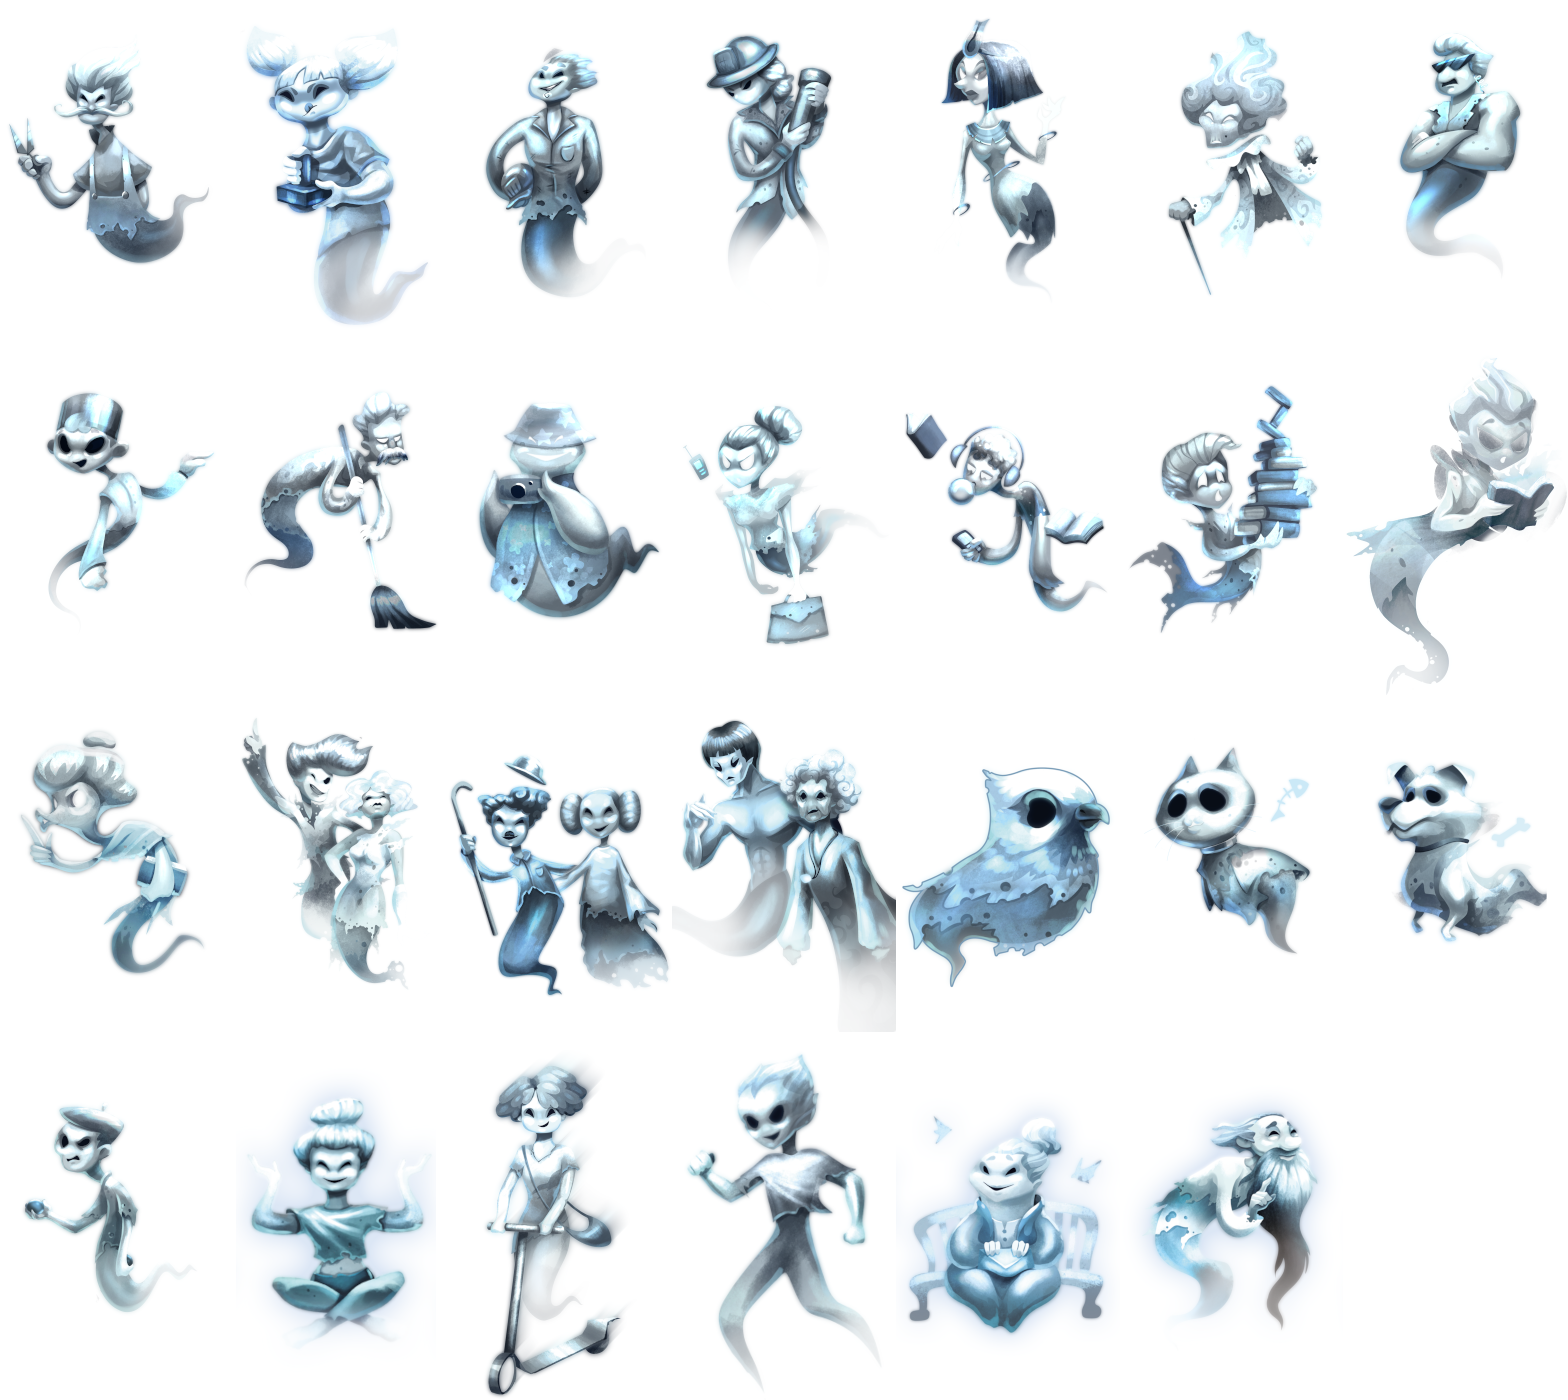
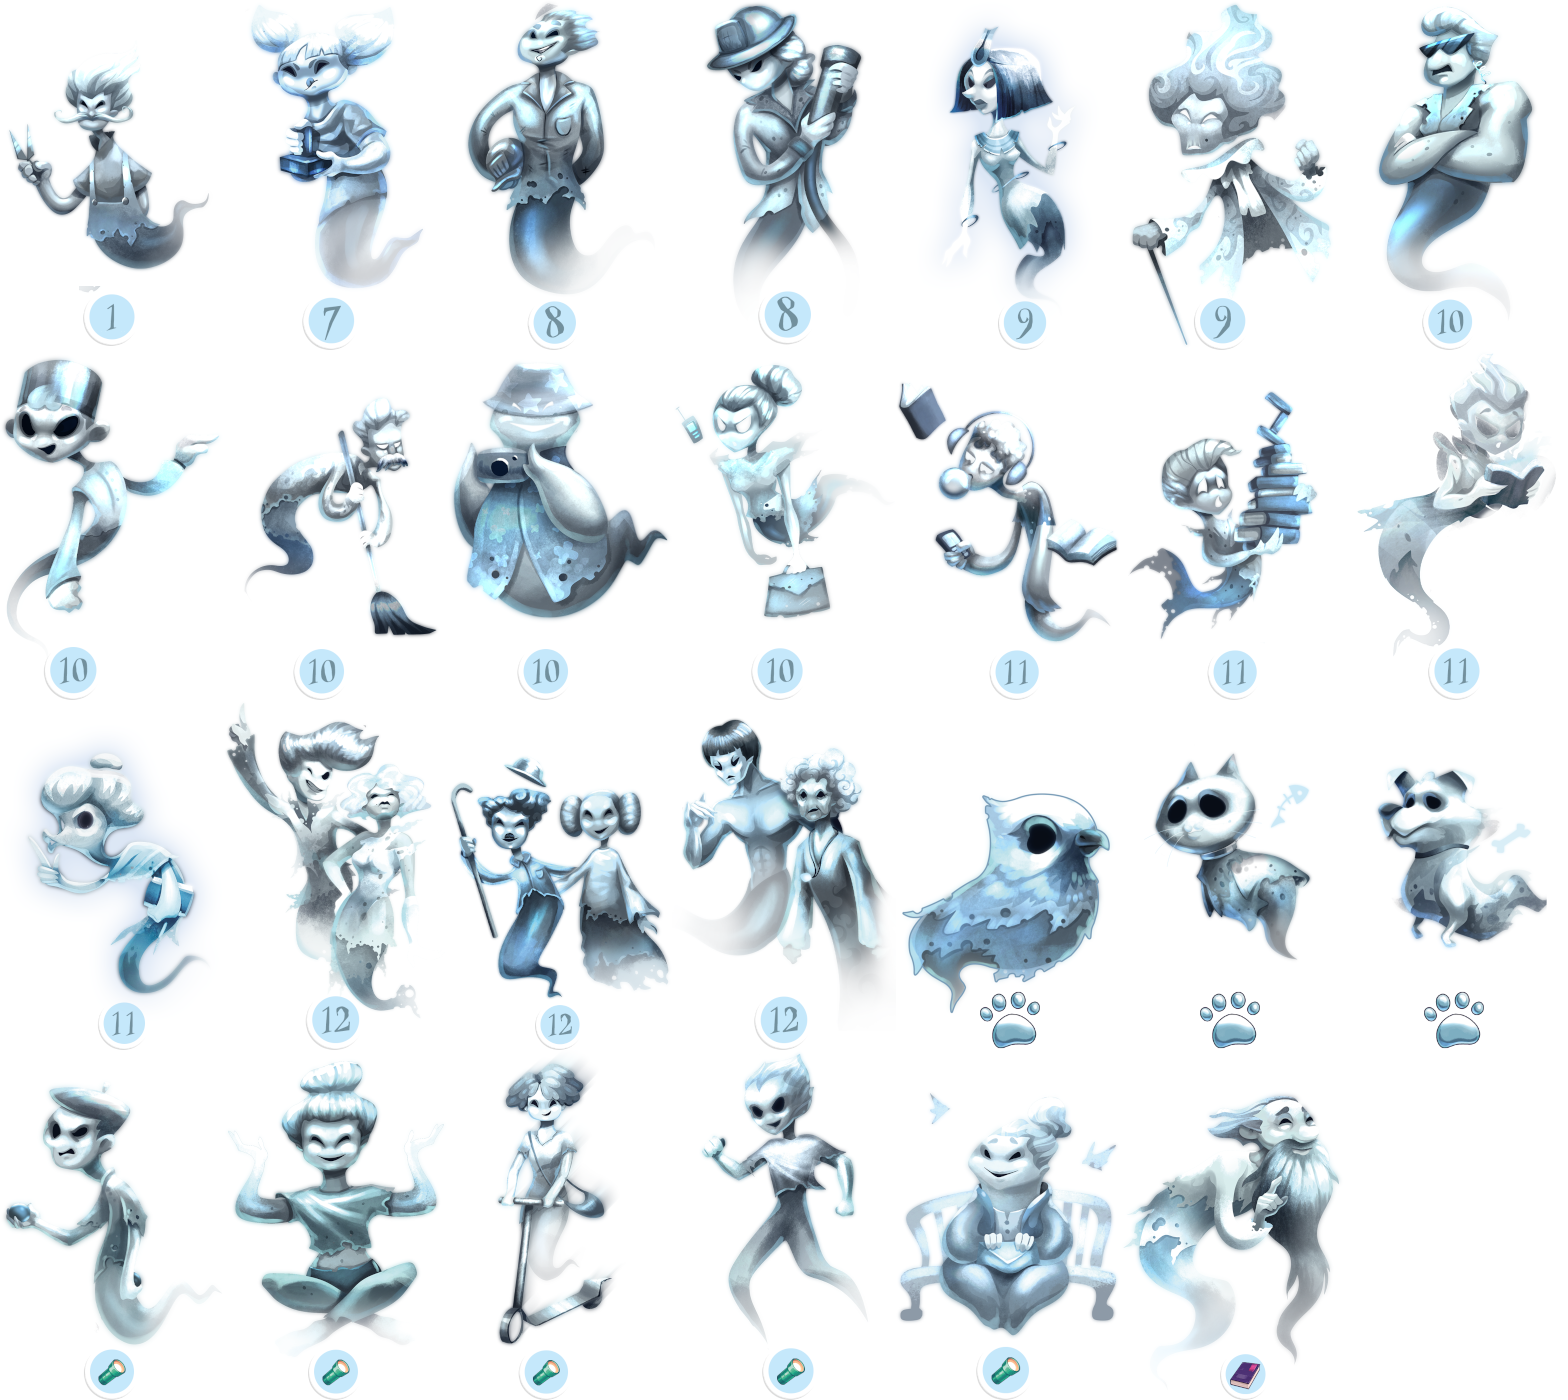
commit

diff --git a/spookytower.css b/spookytower.css
@@ -855,6 +855,32 @@ font-family: "AktivGrotesk-Regular", sans-serif;
   gap: 8px 30px;
 }
 
+.numbers {
+  background-image: url("img/ST_numbers.png");
+  background-size: 1200% 100%;
+  width: 29px;
+  height: 32px;
+  pointer-events: none;
+  display: inline-block;
+  vertical-align: middle;
+  box-sizing: border-box;
+
+}
+
+.numb_1  { background-position: -0%   -0%; }
+.numb_2  { background-position: -100% -0%; }
+.numb_3  { background-position: -200% -0%; }
+.numb_4  { background-position: -300% -0%; }
+.numb_5  { background-position: -400% -0%; }
+.numb_6  { background-position: -500% -0%; }
+.numb_7  { background-position: -600% -0%; }
+.numb_8  { background-position: -700% -0%; }
+.numb_9  { background-position: -800% -0%; }
+.numb_10 { background-position: -900% -0%; }
+.numb_11 { background-position: -1000% -0%; }
+.numb_12 { background-position: -1100% -0%; }
+
+
 
 /*////////////////////////////////////////
 // ____                _ _              //

diff --git a/modules/php/Pending.php b/modules/php/Pending.php
@@ -305,13 +305,14 @@ class Pending extends Game
             //je change le compteur du deck
             game::$instance->{'deck_' . $no_deck}->inc(-1);
 
-            $txt = clienttranslate('${player_name} takes card ${no_house}');
+            $txt = clienttranslate('${player_name} takes card ${log}');
             game::$instance->notify->all(
                 "takeCard",
                 $txt,
                 [
                     'player_id' => $this->player_id,
                     'no_house' => $no_deck,
+                    'log' => $this->getNumbersLogs($no_deck),
                     'card' => $card,
                     'count_card' => $count_card,
                     'nb_remaining' => game::$instance->{'deck_' . $no_deck}->get()
@@ -447,13 +448,14 @@ class Pending extends Game
 
             $cards = game::$instance->getObjectListFromDB("SELECT card_id id, card_type type, card_type_arg type_arg, card_location location, card_location_arg location_arg, position position FROM building WHERE card_location ='house' AND card_location_arg = '{$this->player_id}' AND card_type ='{$no_house}'");
 
-            $txt = clienttranslate('${player_name} flips house ${no_house}');
+            $txt = clienttranslate('${player_name} flips house ${log}');
             game::$instance->notify->all(
                 "flipCards",
                 $txt,
                 [
                     'player_id' => $this->player_id,
                     'no_house' => $no_house,
+                    'log' => $this->getNumbersLogs($no_house),
                     'cards' => $cards,
                 ]
             );
@@ -983,13 +985,14 @@ class Pending extends Game
 
                 if ($no_house <= 8) {
 
-                    $txt = clienttranslate('${player_name} uses ${log}');
+                    $txt = clienttranslate('${player_name} uses ${log} and flips ${log2}');
                     game::$instance->notify->all(
                         "message",
                         $txt,
                         [
                             'player_id' => $this->player_id,
                             'log' => $this->getLogs('flip8'),
+                            'log2' => $this->getNumbersLogs($no_house),
 
                         ]
                     );
@@ -1008,13 +1011,14 @@ class Pending extends Game
                     );
                 } else {
 
-                    $txt = clienttranslate('${player_name} uses ${log}');
+                    $txt = clienttranslate('${player_name} uses ${log} and flips ${log2}');
                     game::$instance->notify->all(
                         "message",
                         $txt,
                         [
                             'player_id' => $this->player_id,
                             'log' => $this->getLogs('flip9'),
+                            'log2' => $this->getNumbersLogs($no_house),
 
                         ]
                     );
@@ -1170,13 +1174,14 @@ class Pending extends Game
                     ]
                 );
 
-                $txt = clienttranslate('${player_name} uses ${log}');
+                $txt = clienttranslate('${player_name} uses ${log} and takes card ${log2}');
                 game::$instance->notify->all(
                     "message",
                     $txt,
                     [
                         'player_id' => $this->player_id,
                         'log' => $this->getLogs('draw8'),
+                        'log2' => $this->getNumbersLogs($no_deck),
 
                     ]
                 );
@@ -1622,13 +1627,14 @@ class Pending extends Game
             //je change le compteur du deck
             game::$instance->{'deck_' . $no_deck}->inc(-1);
 
-            $txt = clienttranslate('${player_name} takes card ${no_house}');
+            $txt = clienttranslate('${player_name} takes card ${log}');
             game::$instance->notify->all(
                 "takeCard",
                 $txt,
                 [
                     'player_id' => $this->player_id,
                     'no_house' => $no_deck,
+                    'log' => $this->getNumbersLogs($no_deck),
                     'card' => $card,
                     'count_card' => $count_card,
                     'nb_remaining' => game::$instance->{'deck_' . $no_deck}->get()
@@ -2567,4 +2573,15 @@ class Pending extends Game
             return "";
         }
     }
+
+    function getNumbersLogs($type)
+    {
+        if ($type >= 1) {
+            return "<div class='numbers numb_{$type}' title=''></div>";
+        } else {
+            return "";
+        }
+    }
+
+
 }

diff --git a/modules/php/PendingConfirm.php b/modules/php/PendingConfirm.php
@@ -143,13 +143,14 @@ trait PendingConfirmTrait  // ATTENTION
             //je change le compteur du deck
             game::$instance->{'deck_' . $no_deck}->inc(-1);
 
-            $txt = clienttranslate('${player_name} takes card ${no_house}');
+            $txt = clienttranslate('${player_name} takes card ${log}');
             game::$instance->notify->all(
                 "takeCard",
                 $txt,
                 [
                     'player_id' => $this->player_id,
                     'no_house' => $no_deck,
+                    'log' => $this->getNumbersLogs($no_deck),
                     'card' => $card,
                     'count_card' => $count_card,
                     'nb_remaining' => game::$instance->{'deck_' . $no_deck}->get()
@@ -285,13 +286,14 @@ trait PendingConfirmTrait  // ATTENTION
 
             $cards = game::$instance->getObjectListFromDB("SELECT card_id id, card_type type, card_type_arg type_arg, card_location location, card_location_arg location_arg, position position FROM building WHERE card_location ='house' AND card_location_arg = '{$this->player_id}' AND card_type ='{$no_house}'");
 
-            $txt = clienttranslate('${player_name} flips house ${no_house}');
+            $txt = clienttranslate('${player_name} flips house ${log}');
             game::$instance->notify->all(
                 "flipCards",
                 $txt,
                 [
                     'player_id' => $this->player_id,
                     'no_house' => $no_house,
+                    'log' => $this->getNumbersLogs($no_house),
                     'cards' => $cards,
                 ]
             );
@@ -480,13 +482,14 @@ trait PendingConfirmTrait  // ATTENTION
 
                 if ($no_house <= 8) {
 
-                    $txt = clienttranslate('${player_name} uses ${log}');
+                    $txt = clienttranslate('${player_name} uses ${log} and flips ${log2}');
                     game::$instance->notify->all(
                         "message",
                         $txt,
                         [
                             'player_id' => $this->player_id,
                             'log' => $this->getLogs('flip8'),
+                            'log2' => $this->getNumbersLogs($no_house),
 
                         ]
                     );
@@ -505,13 +508,14 @@ trait PendingConfirmTrait  // ATTENTION
                     );
                 } else {
 
-                    $txt = clienttranslate('${player_name} uses ${log}');
+                    $txt = clienttranslate('${player_name} uses ${log} and flips ${log2}');
                     game::$instance->notify->all(
                         "message",
                         $txt,
                         [
                             'player_id' => $this->player_id,
                             'log' => $this->getLogs('flip9'),
+                            'log2' => $this->getNumbersLogs($no_house),
 
                         ]
                     );
@@ -667,13 +671,14 @@ trait PendingConfirmTrait  // ATTENTION
                     ]
                 );
 
-                $txt = clienttranslate('${player_name} uses ${log}');
+                $txt = clienttranslate('${player_name} uses ${log} and takes card ${log2}');
                 game::$instance->notify->all(
                     "message",
                     $txt,
                     [
                         'player_id' => $this->player_id,
                         'log' => $this->getLogs('draw8'),
+                        'log2' => $this->getNumbersLogs($no_deck),
 
                     ]
                 );
